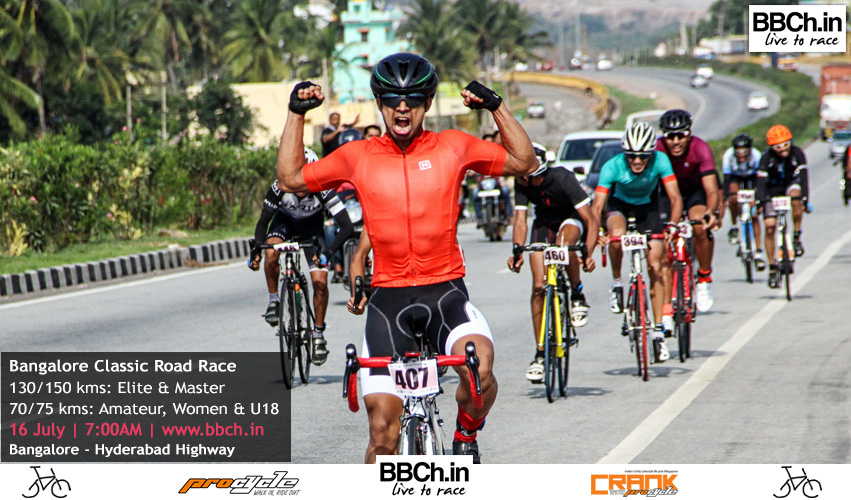
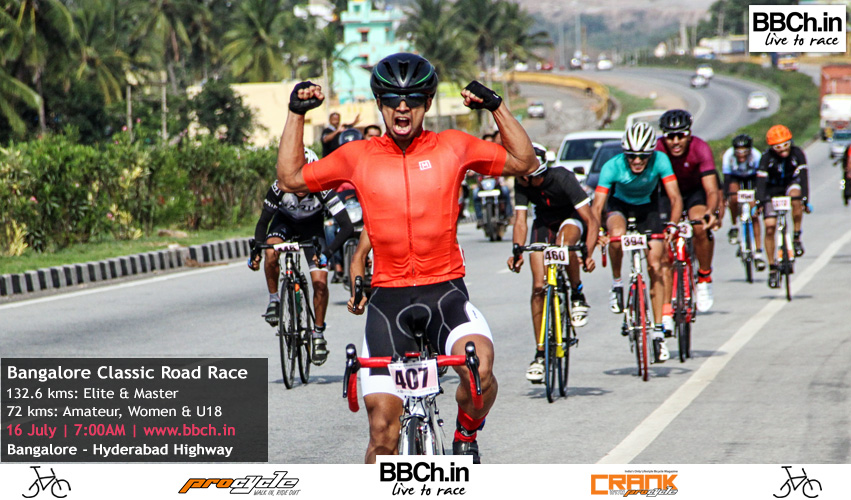
Rae 06
updated

Changed region(s): [[0.0, 0.69, 0.3666, 0.93]]

diff --git a/BBCh17Race06.htm b/BBCh17Race06.htm
@@ -177,15 +177,15 @@
                 <p>
                     <span class="CaptionText">When : </span>Sunday, 16th July 2017<br />
                     <span class="CaptionText">Where : </span>
-                        <a href="https://goo.gl/maps/8becb3Dwq862" target="_blank">Tentative: Bangalore - Hyderabad Highway | Opp. HP Petrol Bunk & CCD</a><br />
+                        <a href="https://goo.gl/maps/GBFAsT2ypyG2" target="_blank">Bangalore - Hyderabad Highway | Opp. HP Petrol Bunk & CCD</a><br />
                     <span class="CaptionText">Reporting Time : </span>6:00AM<br /><br />
 
-                    <span class="CaptionText">**Race Distance : </span>130km / 150km<br />
+                    <span class="CaptionText">**Race Distance : </span>132.6km<br />
                     <span class="CaptionText" style="padding-left: 40px">Categories :</span> Elite & Masters<br />
                     <span class="CaptionText" style="padding-left: 40px">Race Start :</span> 7:00AM<br />
                     <span class="CaptionText" style="padding-left: 40px">Cut-off Time :</span> 12:30AM / 330 Mins<br /><br />
 
-                    <span class="CaptionText">**Race Distance : </span>70km / 75km<br />
+                    <span class="CaptionText">**Race Distance : </span>72km<br />
                     <span class="CaptionText" style="padding-left: 40px">Categories :</span> U-18, Women & Amateur<br />
                     <span class="CaptionText" style="padding-left: 40px">Race Start :</span> 7:10AM<br />
                     <span class="CaptionText" style="padding-left: 40px">Cut-off Time :</span> 10:10AM / 180 Mins<br /><br />
@@ -212,7 +212,7 @@
                     
                     <p>
                      Bangalore Bicycle Championships is going with first ever longest distance race in INDIA, its called as a Bangalore Classic Road Race. 
-                     There will be two distance races, 130km Race for Elite and Masters and 70km Race for Amateur, Women and U-18. 
+                     There will be two distance races, 132.6km Race for Elite and Masters and 72km Race for Amateur, Women and U-18. 
                      Race will be on NH-7 Bangalore - Hyderabad Highway.<br />
                     <br />
                     Get your race face on people and get ready for a rocking road season at the Bangalore Bicycle Championships. <br />
@@ -262,25 +262,25 @@
                     <b>Race Course Details:</b><br />
 
                     <span class="CaptionText">Race Start Point :</span>Race Start Point | Opp. CCD and HP Petrol Bunk<br />
-                    <a href="https://goo.gl/maps/8becb3Dwq862" target="_blank">https://goo.gl/maps/8becb3Dwq862</a><br />
+                    <a href="https://goo.gl/maps/GBFAsT2ypyG2" target="_blank">https://goo.gl/maps/8becb3Dwq862</a><br />
                     
                     ********<br />
 
-                    <b>130Km Race Route :</b>
+                    <b>132.6Km Race Route :</b>
                     <a href="https://goo.gl/maps/MJaAzvbqius" target="_blank">https://goo.gl/maps/MJaAzvbqius</a><br />
 
-                    <b>65km (130km U-Turn / Before Bagepalli Toll Plaza)</b>
-                    <a href="https://goo.gl/maps/r2sA3FYNxzN2" target="_blank">https://goo.gl/maps/r2sA3FYNxzN2</a><br />
+                    <b>66.2km (132.6km U-Turn / Before Bagepalli Toll Plaza)</b>
+                    <a href="https://goo.gl/maps/SQtTXXUZ9tp" target="_blank">https://goo.gl/maps/SQtTXXUZ9tp</a><br />
                     
                     ********<br />
 
-                    <b>70Km Race Route :</b>
+                    <b>72km Race Route :</b>
                     <a href="https://goo.gl/maps/CCfWqR6dpht" target="_blank">https://goo.gl/maps/CCfWqR6dpht</a><br />
                     
-                    <b>35km (70km U-Turn / Next to Reddygollavarahalli Bust Stop)</b>
-                    <a href="https://goo.gl/maps/UFgCp586ogk" target="_blank">https://goo.gl/maps/UFgCp586ogk</a><br /><br />
+                    <b>36km (72km U-Turn / Next to Reddygollavarahalli Bust Stop)</b>
+                    <a href="https://goo.gl/maps/3gJutRjkmP62" target="_blank">https://goo.gl/maps/3gJutRjkmP62</a><br /><br />
 
-                    <b>Note:</b> 130km & 70km as per car odometer and it may vary little bit as per cyclo-comp or Garmin
+                    <b>Note:</b> 132.6km & 72km as per car odometer and it may vary little bit as per cyclo-comp or Garmin
 
                     </p>
                  <hr />
@@ -360,7 +360,7 @@
                 <span class="CaptionText">RIDE TIPS</span><br />
                 <ul>
                     <li>Try and get a long ride (or two) around the 3hr+ mark in this weekend</li>
-                    <li>It will take anywhere from 2.5 to 4hrs to complete this distance</li>
+                    <li>It will take anywhere from 2.5 to 5hrs to complete this distance</li>
                     <li>Drink: 600ml/hr, so that’s a minimum of 2-3 bottles</li>
                     <li>Eat: 200-300 Calories/hr (800-1200 kJ/hr)</li>
                     <li>Replenish electrolytes lost in sweat through Gatorade, Enerzal or Electral</li>
@@ -500,8 +500,8 @@
                                     during the race and his opinion will be considered final.
                                 </li>
                                 <li>
-                                    Registration is strictly Online <a href="https://in.explara.com/e/bbch16-race04" 
-                                    target="_blank">https://in.explara.com/e/bbch16-race04</a> and no spot registration will be allowed
+                                    Registration is strictly Online <a href="https://in.explara.com/e/bbch16-race06" 
+                                    target="_blank">https://in.explara.com/e/bbch16-race06</a> and no spot registration will be allowed
                                 </li>
                                 <li>
                                     If you would like to get in touch with the the core team, please do shoot us an email at <b>council@bbch.in </b>
@@ -517,7 +517,7 @@
                  <div style="width: 700px; float: left">
                     <a name="BBCh17_06_140KmResult"></a>
                     <h2>
-                        BBCh16 Race #04 - 50km & 100km Road Race Result</h2>
+                        BBCh17 Race #06 - Bangalore Classic 72km & 132.6km Road Race Result</h2>
                 </div>
                 <div class="clear">
                 </div>

diff --git a/index.html b/index.html
@@ -207,7 +207,7 @@
                     </div>
                     <div class="showcase-caption">
                         Bangalore Classic Road Race<br />
-                        Road Race 70km-140km<br />
+                        Road Race 70km-132.6km<br />
                         July 16th | BLR-HYD Road
                     </div>
                 </div>
@@ -362,15 +362,15 @@
                 <p>
                     <span class="CaptionText">When : </span>Sunday, 16th July 2017<br />
                     <span class="CaptionText">Where : </span>
-                        <a href="https://goo.gl/maps/8becb3Dwq862" target="_blank">Tentative: Bangalore - Hyderabad Highway | Opp. HP Petrol Bunk & CCD</a><br />
+                        <a href="https://goo.gl/maps/GBFAsT2ypyG2" target="_blank">Bangalore - Hyderabad Highway | Opp. HP Petrol Bunk & CCD</a><br />
                     <span class="CaptionText">Reporting Time : </span>6:00AM<br /><br />
 
-                    <span class="CaptionText">**Race Distance : </span>130km / 150km<br />
+                    <span class="CaptionText">**Race Distance : </span>132.6km<br />
                     <span class="CaptionText" style="padding-left: 40px">Categories :</span> Elite & Masters<br />
                     <span class="CaptionText" style="padding-left: 40px">Race Start :</span> 7:00AM<br />
                     <span class="CaptionText" style="padding-left: 40px">Cut-off Time :</span> 12:30AM / 330 Mins<br /><br />
 
-                    <span class="CaptionText">**Race Distance : </span>70km / 75km<br />
+                    <span class="CaptionText">**Race Distance : </span>72km<br />
                     <span class="CaptionText" style="padding-left: 40px">Categories :</span> U-18, Women & Amateur<br />
                     <span class="CaptionText" style="padding-left: 40px">Race Start :</span> 7:10AM<br />
                     <span class="CaptionText" style="padding-left: 40px">Cut-off Time :</span> 10:10AM / 180 Mins<br /><br />
@@ -417,7 +417,7 @@
                 </p>
                 <p style="line-height: 200%">
                     Bangalore Bicycle Championships is going with first ever longest distance race in INDIA, its called as a Bangalore Classic Road Race. 
-                     There will be two distance races, 130km Race for Elite and Masters and 70km Race for Amateur, Women and U-18. 
+                     There will be two distance races, 132.6km Race for Elite and Masters and 72km Race for Amateur, Women and U-18. 
                      Race will be on NH-7 Bangalore - Hyderabad Highway.<br />
                     <br />
                     Get your race face on people and get ready for a rocking road season at the Bangalore Bicycle Championships. <br />
@@ -610,6 +610,9 @@
                 </a>
                 <a href="Sponsors.htm">
                     <img class="left" alt="MCP" src="Images/SponsorMyCousinsPlace.jpg" style="border: 0; height: 100px" />
+                </a>
+                <a href="Sponsors.htm">
+                    <img class="left" alt="Century" src="Images/SponsorCentury.jpg" style="border: 0; height: 100px" />
                 </a>
             </div>
             <div class="clear">

diff --git a/Gallery.htm b/Gallery.htm
@@ -173,12 +173,20 @@
                                 <tr>
                                     <td>
 
+                                        <iframe src="https://www.facebook.com/plugins/post.php?href=https%3A%2F%2Fwww.facebook.com%2FBangaloreBicycleChampionships%2Fposts%2F10155230261100767&width=500" 
+                                        width="500" height="712" style="border:none;overflow:hidden" scrolling="no" frameborder="0" allowTransparency="true"></iframe>
+
+                                        <br /><br />
+
+                                        <iframe src="https://www.facebook.com/plugins/post.php?href=https%3A%2F%2Fwww.facebook.com%2Fmedia%2Fset%2F%3Fset%3Da.1385918331443231.1073741907.133075056727571%26type%3D3&width=500" 
+                                        width="500" height="683" style="border:none;overflow:hidden" scrolling="no" frameborder="0" allowTransparency="true"></iframe>
+
+                                        <br /><br />
+
                                        <iframe src="https://www.facebook.com/plugins/post.php?href=https%3A%2F%2Fwww.facebook.com%2FBikeyVenky%2Fposts%2F10213018426084957&width=500" 
                                        width="500" height="597" style="border:none;overflow:hidden" scrolling="no" frameborder="0" allowTransparency="true"></iframe>
                                        
                                        <br /><br />
-                                        
-
                                     </td>
                                 </tr>
                             </table>

diff --git a/Sponsors.htm b/Sponsors.htm
@@ -326,6 +326,15 @@
                             </div>
                             <br /><hr /><br />
 
+
+                            <a href="#" target="_blank">
+                            <div>
+                            <h1>VENUE PARTNER</h1>
+                            <img alt="Century Sports Village" src="Images/SponsorCentury.jpg" style="border: 0; height: 180px" />
+                            </div>
+                            </a>
+                            <br /><hr /><br />
+
                         </a>
                         <br /><br />
                         </div>
